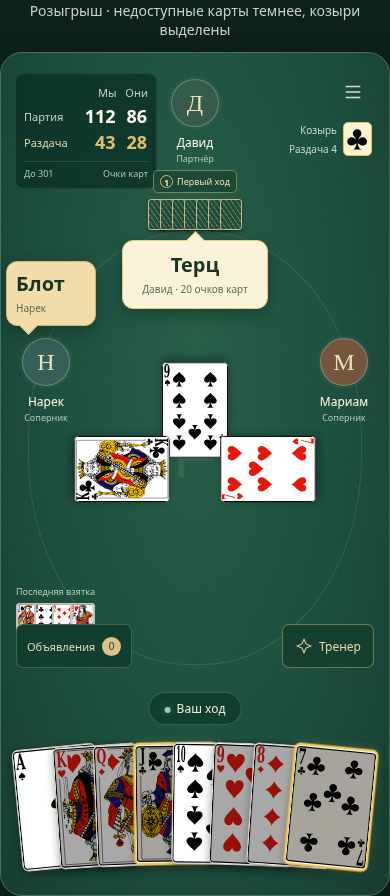
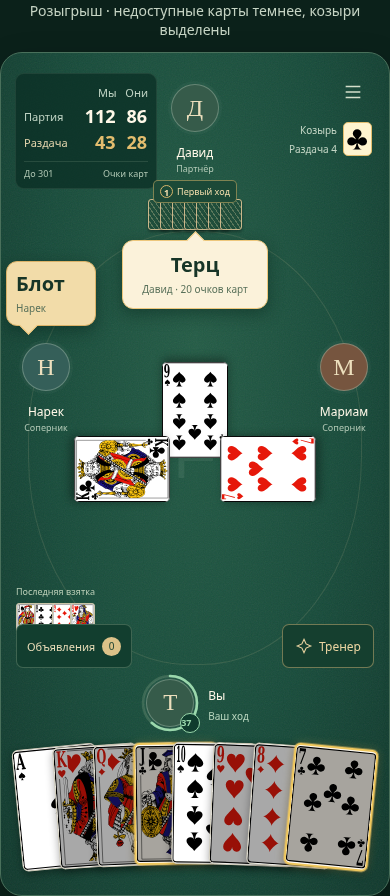
Show an expiring timer ring around the active player in design preview

diff --git a/docs/design-v3/app.js b/docs/design-v3/app.js
@@ -10,7 +10,10 @@ const cardImage = (suit, rank) => `<img src="${CARD_BASE}${suit}-${rank}.svg" al
 const suitImage = suit => `<img class="suit" src="${CARD_BASE}${suit}.svg" alt="${glyphs[suit]}" draggable="false">`;
 const menuIcon = `<svg viewBox="0 0 24 24" fill="none" stroke="currentColor" stroke-width="1.6"><path d="M4 6h16M4 12h16M4 18h16"/></svg>`;
 const coachIcon = `<svg viewBox="0 0 24 24" fill="none" stroke="currentColor" stroke-width="1.5"><path d="m12 3 2.8 6.2L21 12l-6.2 2.8L12 21l-2.8-6.2L3 12l6.2-2.8L12 3Z"/></svg>`;
-const players = `<div class="player player-north"><div class="avatar">Д</div><div class="identity"><div class="player-name">Давид</div><span class="player-role">Партнёр</span></div><span class="first-lead"><b>1</b>Первый ход</span></div><div class="player player-west"><div class="avatar">Н</div><div class="player-name">Нарек</div><span class="player-role">Соперник</span></div><div class="player player-east"><div class="avatar">М</div><div class="player-name">Мариам</div><span class="player-role">Соперник</span></div>`;
+function avatar(letter, seat) {
+  return `<div class="avatar-shell" data-seat="${seat}"><svg class="player-clock" viewBox="0 0 58 58" aria-label="Оставшееся время хода"><circle class="clock-track" cx="29" cy="29" r="27"/><circle class="clock-ring" cx="29" cy="29" r="27" transform="rotate(-90 29 29)"/></svg><div class="avatar">${letter}</div><span class="clock-count">37</span></div>`;
+}
+const players = `<div class="player player-north">${avatar("Д", "NORTH")}<div class="identity"><div class="player-name">Давид</div><span class="player-role">Партнёр</span></div><span class="first-lead"><b>1</b>Первый ход</span></div><div class="player player-west">${avatar("Н", "WEST")}<div class="player-name">Нарек</div><span class="player-role">Соперник</span></div><div class="player player-east">${avatar("М", "EAST")}<div class="player-name">Мариам</div><span class="player-role">Соперник</span></div>`;
 function scoreboard(bidding) {
   return `<div class="score" aria-label="Счёт команд"><table><thead><tr><th></th><th>Мы</th><th>Они</th></tr></thead><tbody><tr><th>Партия</th><td>112</td><td>86</td></tr><tr class="live"><th>Раздача</th><td>${bidding ? 0 : 43}</td><td>${bidding ? 0 : 28}</td></tr></tbody></table><div class="score-meta"><span>До 301</span><span>Очки карт</span></div></div>`;
 }
@@ -35,7 +38,7 @@ document.querySelector("#scenes").innerHTML = scenes.map(scene => {
   const proof = scene.id === "proof";
   const trick = proof ? [["WEST", "CLUBS", "QUEEN"], ["NORTH", "SPADES", "SEVEN"], ["EAST", "DIAMONDS", "TEN"]] : [["NORTH", "SPADES", "NINE"], ["EAST", "HEARTS", "SEVEN"], ["WEST", "CLUBS", "KING"]];
   const announcements = scene.bidding ? "" : `<div class="speech speech-north ${proof ? "proof" : ""}" data-static-notice><strong>Терц</strong><small>${proof ? "Давид показывает комбинацию" : "Давид · 20 очков карт"}</small>${proof ? `<div class="proof-cards">${["SEVEN", "EIGHT", "NINE"].map(rank => cardImage("SPADES", rank)).join("")}</div>` : ""}</div><div class="speech speech-west is-blot" data-static-notice><strong>${proof ? "Реблот" : "Блот"}</strong><small>${proof ? "Нарек · +20 очков карт" : "Нарек"}</small></div>`;
-  return `<figure class="scene ${scene.id === "play" ? "active" : ""} ${scene.id === "landscape" ? "scene-landscape" : ""}" data-scene="${scene.id}"><figcaption>${scene.title}</figcaption><div class="board ${scene.bidding ? "bid-board" : ""} ${proof ? "proof-board" : ""}"><div class="felt-oval"></div>${scoreboard(scene.bidding)}<button class="corner-menu" aria-label="Меню партии">${menuIcon}</button><div class="contract"><span>Козырь</span><strong>${suitImage("CLUBS")}</strong><small>Раздача ${scene.bidding ? 5 : 4}</small></div>${players}<div class="back-hand">${Array.from({ length: scene.bidding ? 8 : 7 }, () => '<span class="card-back"></span>').join("")}</div><span class="brand-watermark">Բ</span>${scene.bidding ? bidPanel() : `<div class="trick" aria-label="Карты сыграны со стороны игроков">${trick.map(([seat, suit, rank]) => `<div class="table-card" data-seat="${seat}">${cardImage(suit, rank)}</div>`).join("")}</div>${announcements}<div class="previous-trick"><span>Последняя взятка</span><div>${[["SPADES", "JACK"], ["CLUBS", "EIGHT"], ["DIAMONDS", "NINE"], ["HEARTS", "QUEEN"]].map(([suit, rank]) => cardImage(suit, rank)).join("")}</div></div>`}<button class="notice-tray"><span>Объявления</span><span class="count">0</span></button><button class="coach">${coachIcon}Тренер</button><div class="turn">${scene.bidding ? "Ваша очередь в торговле" : "Ваш ход"}</div>${cards(scene.bidding, proof)}<div class="archive-popover" hidden><button class="close" aria-label="Закрыть объявления">×</button><h3>Объявления раздачи</h3><div class="archive-items"></div></div></div></figure>`;
+  return `<figure class="scene ${scene.id === "play" ? "active" : ""} ${scene.id === "landscape" ? "scene-landscape" : ""}" data-scene="${scene.id}"><figcaption>${scene.title}</figcaption><div class="board ${scene.bidding ? "bid-board" : ""} ${proof ? "proof-board" : ""}"><div class="felt-oval"></div>${scoreboard(scene.bidding)}<button class="corner-menu" aria-label="Меню партии">${menuIcon}</button><div class="contract"><span>Козырь</span><strong>${suitImage("CLUBS")}</strong><small>Раздача ${scene.bidding ? 5 : 4}</small></div>${players}<div class="back-hand">${Array.from({ length: scene.bidding ? 8 : 7 }, () => '<span class="card-back"></span>').join("")}</div><span class="brand-watermark">Բ</span>${scene.bidding ? bidPanel() : `<div class="trick" aria-label="Карты сыграны со стороны игроков">${trick.map(([seat, suit, rank]) => `<div class="table-card" data-seat="${seat}">${cardImage(suit, rank)}</div>`).join("")}</div>${announcements}<div class="previous-trick"><span>Последняя взятка</span><div>${[["SPADES", "JACK"], ["CLUBS", "EIGHT"], ["DIAMONDS", "NINE"], ["HEARTS", "QUEEN"]].map(([suit, rank]) => cardImage(suit, rank)).join("")}</div></div>`}<button class="notice-tray"><span>Объявления</span><span class="count">0</span></button><button class="coach">${coachIcon}Тренер</button><div class="self-player">${avatar("Т", "SOUTH")}<div><strong>Вы</strong><span class="self-status">${scene.bidding ? "Ваша очередь" : "Ваш ход"}</span></div></div>${cards(scene.bidding, proof)}<div class="archive-popover" hidden><button class="close" aria-label="Закрыть объявления">×</button><h3>Объявления раздачи</h3><div class="archive-items"></div></div></div></figure>`;
 }).join("");
 
 const noticeTypes = {
@@ -108,3 +111,31 @@ document.querySelectorAll(".bid-panel").forEach(panel => {
 });
 function fitLandscape() { document.documentElement.style.setProperty("--landscape-scale", Math.min(390, innerWidth) / 844); document.documentElement.style.setProperty("--focus-landscape-scale", Math.min(844, innerWidth - (innerWidth > 600 ? 32 : 0)) / 844); }
 addEventListener("resize", fitLandscape); fitLandscape(); renderArchive();
+
+// Visual countdown only: production will use the server deadline and clock offset.
+let secondsLeft = 37;
+let timerTotal = 60;
+let timerId;
+function renderClock() {
+  document.querySelectorAll(".avatar-shell").forEach(shell => {
+    const active = shell.dataset.seat === "SOUTH";
+    shell.dataset.active = active;
+    shell.dataset.urgency = secondsLeft <= 3 ? "critical" : secondsLeft <= 10 ? "warning" : "normal";
+    shell.querySelector(".clock-count").textContent = secondsLeft;
+    const ring = shell.querySelector(".clock-ring");
+    ring.style.strokeDasharray = "169.646";
+    ring.style.strokeDashoffset = 169.646 * (1 - secondsLeft / timerTotal);
+    shell.querySelector(".player-clock").setAttribute("aria-label", `Осталось ${secondsLeft} секунд`);
+  });
+  document.querySelectorAll(".self-status").forEach(el => el.textContent = secondsLeft ? (el.closest(".bid-board") ? "Ваша очередь" : "Ваш ход") : "Время вышло");
+}
+function startClock(seconds = 37, total = 60) {
+  clearInterval(timerId); secondsLeft = seconds; timerTotal = total; renderClock();
+  if (new URLSearchParams(location.search).has("static")) return;
+  timerId = setInterval(() => { secondsLeft = Math.max(0, secondsLeft - 1); renderClock(); if (!secondsLeft) clearInterval(timerId); }, 1000);
+}
+const timerDemo = document.createElement("button");
+timerDemo.textContent = "Показать таймер · 10 секунд";
+timerDemo.addEventListener("click", () => { startClock(10, 10); document.querySelector(".scene.active")?.scrollIntoView({block:"start",behavior:matchMedia("(prefers-reduced-motion: reduce)").matches ? "auto" : "smooth"}); });
+document.querySelector("#announcement-controls").append(timerDemo);
+startClock();

diff --git a/docs/design-v3/styles.css b/docs/design-v3/styles.css
@@ -174,3 +174,30 @@ body.focused .scene-landscape .board { transform:scale(var(--focus-landscape-sca
 
 .proof-board .trick { top:438px; }
 .live-notice.proof .proof-cards img { width:38px; height:55px; }
+
+.avatar-shell { position:relative; width:58px; height:58px; margin:0 auto 7px; --clock-color:#9ad8ac; }
+.avatar-shell > .avatar { position:absolute; width:48px; height:48px; left:5px; top:5px; margin:0; }
+.player-clock { position:absolute; inset:0; width:100%; height:100%; fill:none; pointer-events:none; opacity:0; }
+.clock-track { stroke:#c4d7b42e; stroke-width:2.6; }
+.clock-ring { stroke:var(--clock-color); stroke-width:2.6; stroke-linecap:round; transition:stroke-dashoffset .9s linear,stroke .25s ease; }
+.clock-count { display:none; position:absolute; right:-1px; bottom:-1px; min-width:20px; height:20px; border:1px solid var(--clock-color); border-radius:50%; background:#103c2e; color:var(--clock-color); font:600 9px/18px system-ui,sans-serif; z-index:2; }
+.avatar-shell[data-active="true"] .player-clock { opacity:1; }
+.avatar-shell[data-active="true"] .clock-count { display:block; }
+.avatar-shell[data-urgency="warning"] { --clock-color:#ecc573; }
+.avatar-shell[data-urgency="critical"] { --clock-color:#f4997d; }
+.self-player { display:flex; align-items:center; justify-content:center; gap:9px; position:absolute; left:50%; bottom:163px; transform:translateX(-50%); width:160px; min-height:58px; }
+.self-player .avatar-shell { margin:0; flex:none; }
+.self-player .avatar { font-size:23px; }
+.self-player strong { font-size:12px; font-weight:500; }
+.self-status { display:block; margin-top:4px; font-size:10px; color:#b8d5be; white-space:nowrap; }
+.scene-landscape .player-north .avatar-shell { width:44px; height:44px; margin:0; }
+.scene-landscape .player-north .avatar { width:34px; height:34px; left:5px; top:5px; font-size:20px; }
+.scene-landscape .self-player { bottom:105px; left:170px; width:92px; flex-direction:column; gap:3px; }
+.scene-landscape .self-player .avatar-shell { width:44px; height:44px; }
+.scene-landscape .self-player .avatar { width:34px; height:34px; left:5px; top:5px; font-size:19px; }
+.scene-landscape .self-player > div:last-child { text-align:center; }
+.scene-landscape .self-player strong { font-size:10px; }
+.scene-landscape .self-status { margin-top:1px; font-size:9px; }
+.scene-landscape .player-north { width:214px; }
+.scene-landscape .self-player { bottom:15px; left:152px; width:62px; }
+.scene-landscape .self-status { display:none; }

diff --git a/docs/roadmap.md b/docs/roadmap.md
@@ -42,7 +42,7 @@
 | P19 | 32 локальных SVG-лица и четыре контрастные масти; номиналы в контурах, офлайн, источник/лицензии записаны | [Проверки](testing/friends-fixes.md) |
 | P20 | Своё имя гостя перед входом и смена имени без потери токена/места; рассылка другим и сохранение в архиве | [Проверки](testing/friends-fixes.md) |
 
-| P21 | Новый дизайн: затемнение с сохранением цвета, золотые козыри, ранговая сортировка, первый выход, постоянный счёт, сообщения объявлений у игроков и торговля в центре обеих ориентаций | [Интерактивный макет](design-v3/), [снимки](../previews/design-v3/); проверены 320/390 px, центрирование и последовательность показа/архивирования. Это макет, не изменения клиента |
+| P21 | Новый дизайн: затемнение с сохранением цвета, золотые козыри, ранговая сортировка, первый выход, убывающий таймер вокруг активного игрока, постоянный счёт, сообщения объявлений у игроков и торговля в центре обеих ориентаций | [Интерактивный макет](design-v3/), [снимки](../previews/design-v3/); проверены 320/390 px, центрирование и последовательность показа/архивирования. Это макет, не изменения клиента |
 
 ## Следующие задачи
 
@@ -51,7 +51,7 @@ P02 — проверка пользователем. Остальные зада
 | ID | Задача | После | Критерий готовности |
 | --- | --- | --- | --- |
 
-| P22 | Перенести новый макет P21 в React-клиент и проверить живые онлайн/офлайн-события | P21 | Затемнение без grayscale, козыри, ранговая сортировка; первый выход и счёт в торговле; центральная панель в обеих ориентациях; названные всплывающие объявления/блот/реблот до архивирования, без повтора после восстановления |
+| P22 | Перенести новый макет P21 в React-клиент и проверить живые онлайн/офлайн-события | P21 | Затемнение без grayscale, козыри, ранговая сортировка; первый выход, убывающее кольцо таймера и счёт в торговле; центральная панель в обеих ориентациях; названные всплывающие объявления/блот/реблот до архивирования, без повтора после восстановления |
 | P02 | Проверить игру на физических Android/iOS и исправить обнаруженные проблемы интерфейса | C05 | Проверены меню, торговля, карты и чат, поворот экрана, продолжение после закрытия, офлайн-запуск, история и импорт/экспорт; проблемы исправлены либо записаны отдельными задачами |
 | P04 | Выбрать первый внешний API модели и оценить расходы | C02; можно до P03 | На примерах партий сравнили качество объяснений, задержку и стоимость; выбрали провайдера и конфигурацию |
 | P05 | Подключить настоящего тренера во время офлайн-партии | P03, P04, C03 | Сервер проверяет общий четырёхзначный код без ограничения попыток; ключ модели остаётся на сервере; модель получает только информацию игрока; ответ содержит совет, объяснение и альтернативы; проверяются формат и допустимость действия; ошибки/задержки AI не мешают продолжению партии |

diff --git a/docs/design-v3/README.md b/docs/design-v3/README.md
@@ -30,6 +30,13 @@
 - Торговля — **центр стола в портрете и горизонтально**. Вокруг остаются
   видны счёт, участники, первый выход и рука. Панель не перекрывает индексы карт.
 
+- Таймер активного игрока — убывающее кольцо вокруг аватара. Маленькое число
+  внизу кольца помогает считывать остаток времени. До 10 секунд кольцо жёлтое,
+  до 3 — коралловое; круг убывает до нуля без мигания. Есть собственный аватар
+  над рукой; он не закрывает индексы карт. В обоих режимах показан активный
+  SOUTH. Кнопка демонстрации запускает короткий 10-секундный таймер. В реализации
+  источник времени — deadline сервера, а не локальная демонстрация.
+
 ## Визуальная система
 
 Сукно `#174B3A`, край `#0D3026`, панель `#102F25`, светлое сообщение `#FBF2DA`,
